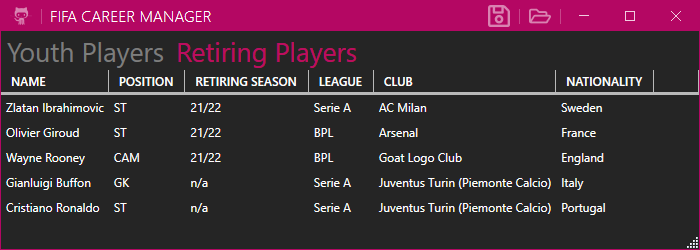
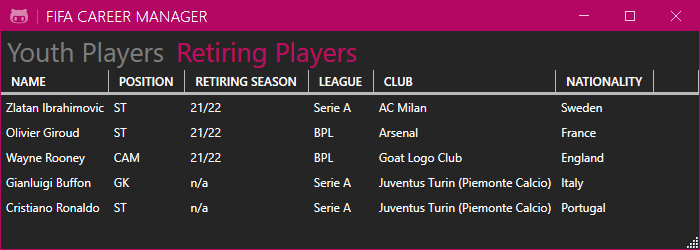
Update screenshots and add functionality section to readme

Changed region(s): [[0.0, 0.028, 0.3, 0.112], [0.69, 0.0, 0.81, 0.112]]

diff --git a/src/FifaCareerManager.Management/IO/FileManagement.cs b/src/FifaCareerManager.Management/IO/FileManagement.cs
@@ -23,18 +23,14 @@ namespace FifaCareerManager.Management.IO
         /// <returns></returns>
         public static string OpenFile(string playerType)
         {
-            try
-            {
-                if (!Directory.Exists(applicationFolder))
-                {
-                    Directory.CreateDirectory(applicationFolder);
-                }
-                return File.ReadAllText(Path.Combine(applicationFolder, $@"{playerType}.json"));
-            }
-            catch (FileNotFoundException)
-            {
-                return string.Empty;
-            }
+            string fileName = Path.Combine(applicationFolder, $@"{playerType}.json");
+
+            if (!Directory.Exists(applicationFolder))
+                Directory.CreateDirectory(applicationFolder);
+            if (!File.Exists(fileName))
+                File.Create(fileName).Dispose();
+
+            return File.ReadAllText(fileName);
         }
 
         /// <summary>
@@ -45,9 +41,8 @@ namespace FifaCareerManager.Management.IO
         public static void SaveFile(string playerType, string playerData)
         {
             if (!Directory.Exists(applicationFolder))
-            {
                 Directory.CreateDirectory(applicationFolder);
-            }
+
             File.WriteAllText(Path.Combine(applicationFolder, $@"{playerType}.json"), playerData);
         }
     }

diff --git a/README.md b/README.md
@@ -12,3 +12,13 @@ Youth Academy Players:
 Retiring Players:
 
 ![Retiring Players](retiring_players.png)
+
+
+## Functionality
+
+- Players can be added by double-clicking into the empty `DataGrid`
+- The players will be saved into two separate json files in the `ApplicationData` directory
+- There is no save button, the players are updated when one of the following actions happen:
+  - adding a player (double-clicking onto empty space in the `DataGrid`)
+  - updating a player (changing its values)
+  - deleting a player (pressing the `Delete` key removes the currently selected player)
